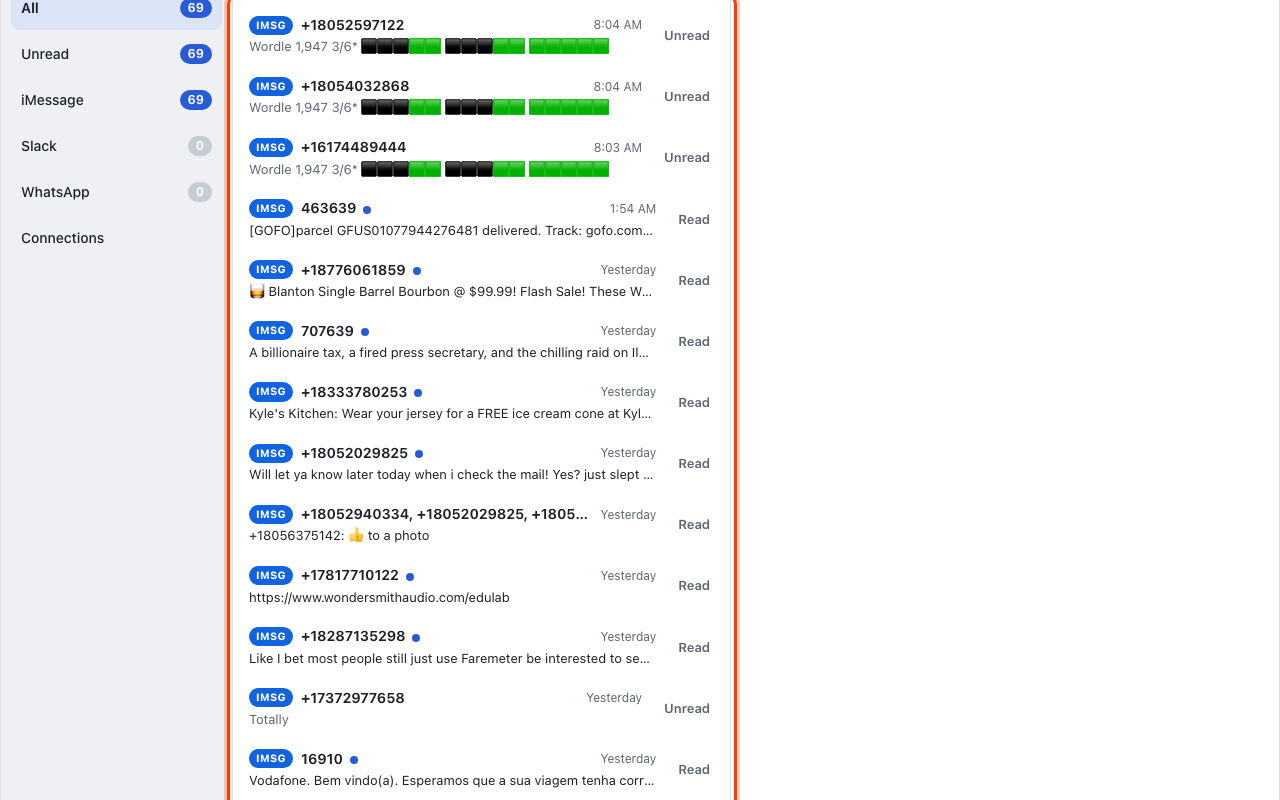
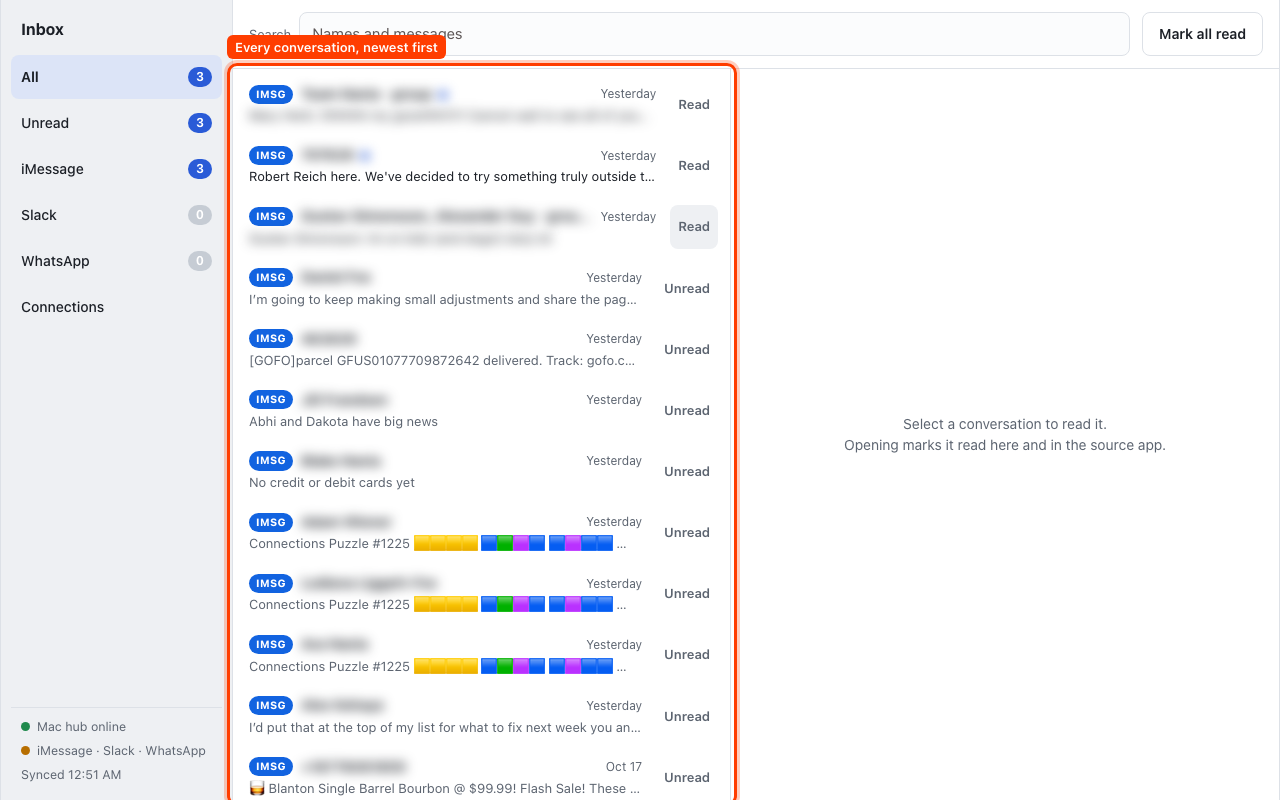
docs(manual): regenerate pictures with blurred names and the newest-first thread

diff --git a/README.md b/README.md
@@ -158,7 +158,7 @@ bun run dev                                                   # terminal 1
 HUB_PID=$(pgrep -f connector-hub/src/main.ts) bun run manual:screenshots   # terminal 2
 ```
 
-It drives a headless browser through the main flow (enrollment and approval, the inbox, a thread, search, phone width, Connections, mark all read, and the hub-offline state, which it produces by pausing the hub for the staleness window) and writes `docs/manual/*.png`. The pictures show whatever is in the inbox at the time, so review them before sharing the manual.
+It drives a headless browser through the main flow (enrollment and approval, the inbox, a thread, search, phone width, Connections, mark all read, and the hub-offline state, which it produces by pausing the hub for the staleness window) and writes `docs/manual/*.png`. The pictures show whatever is in the inbox at the time, so the names that identify people (conversation titles, the reading-pane title, and group chats' sender labels and previews) are blurred before each capture; set `MANUAL_BLUR=0` to capture them unblurred. Message text is not blurred, so review the pictures before sharing the manual. The browser the script drives enrolls as a viewer; when another viewer is already approved, approve it from the Connections screen's sync card while the script waits.
 
 ## Operations
 
